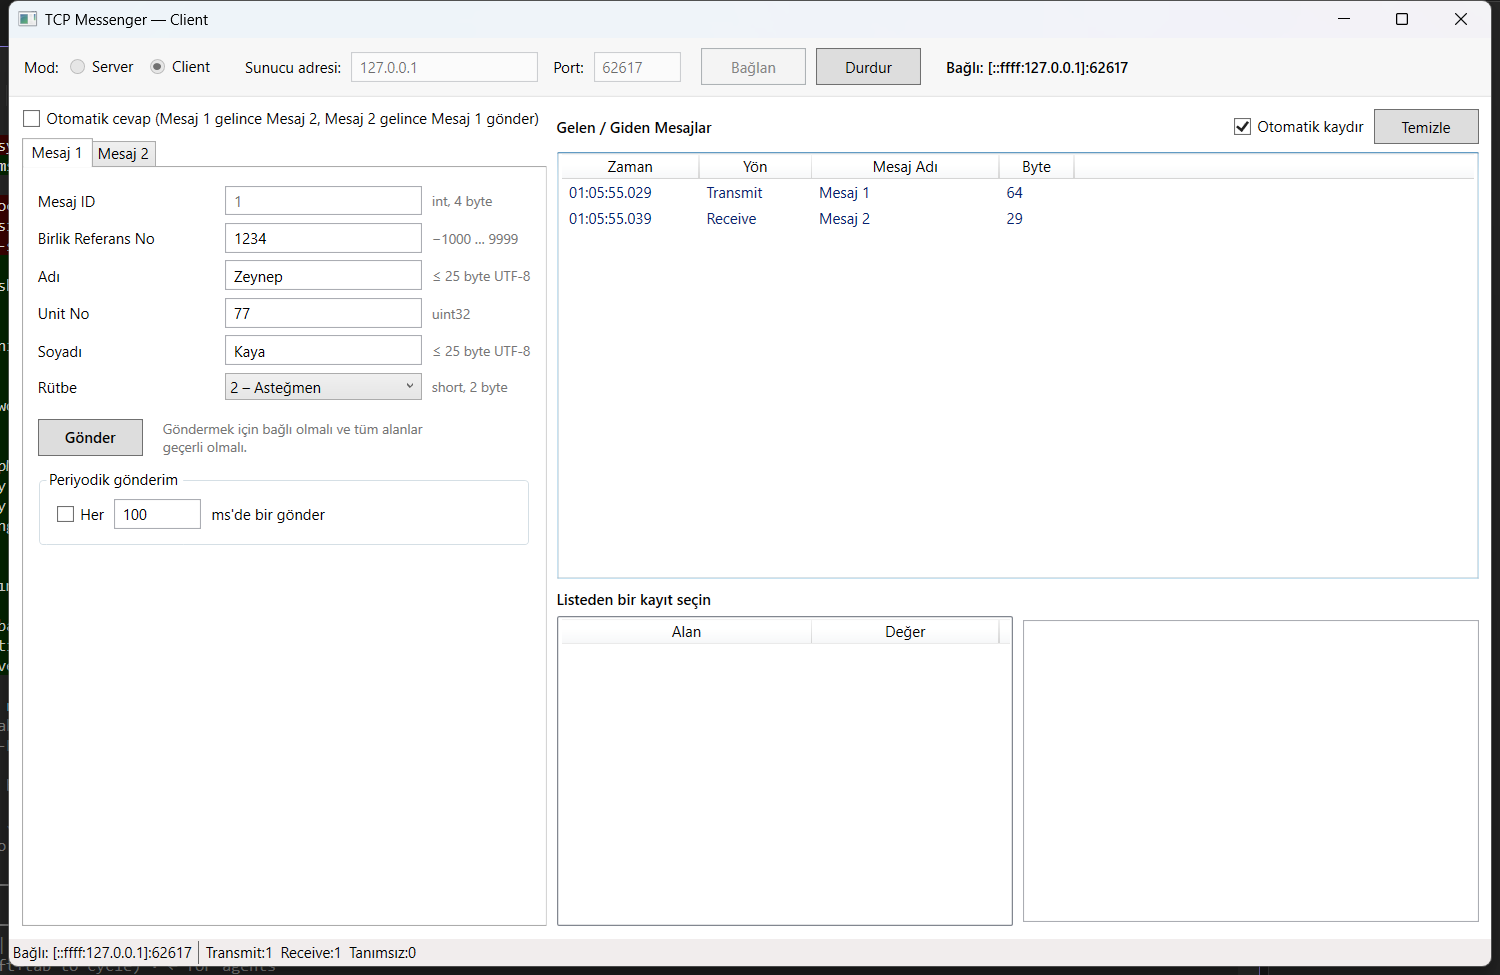
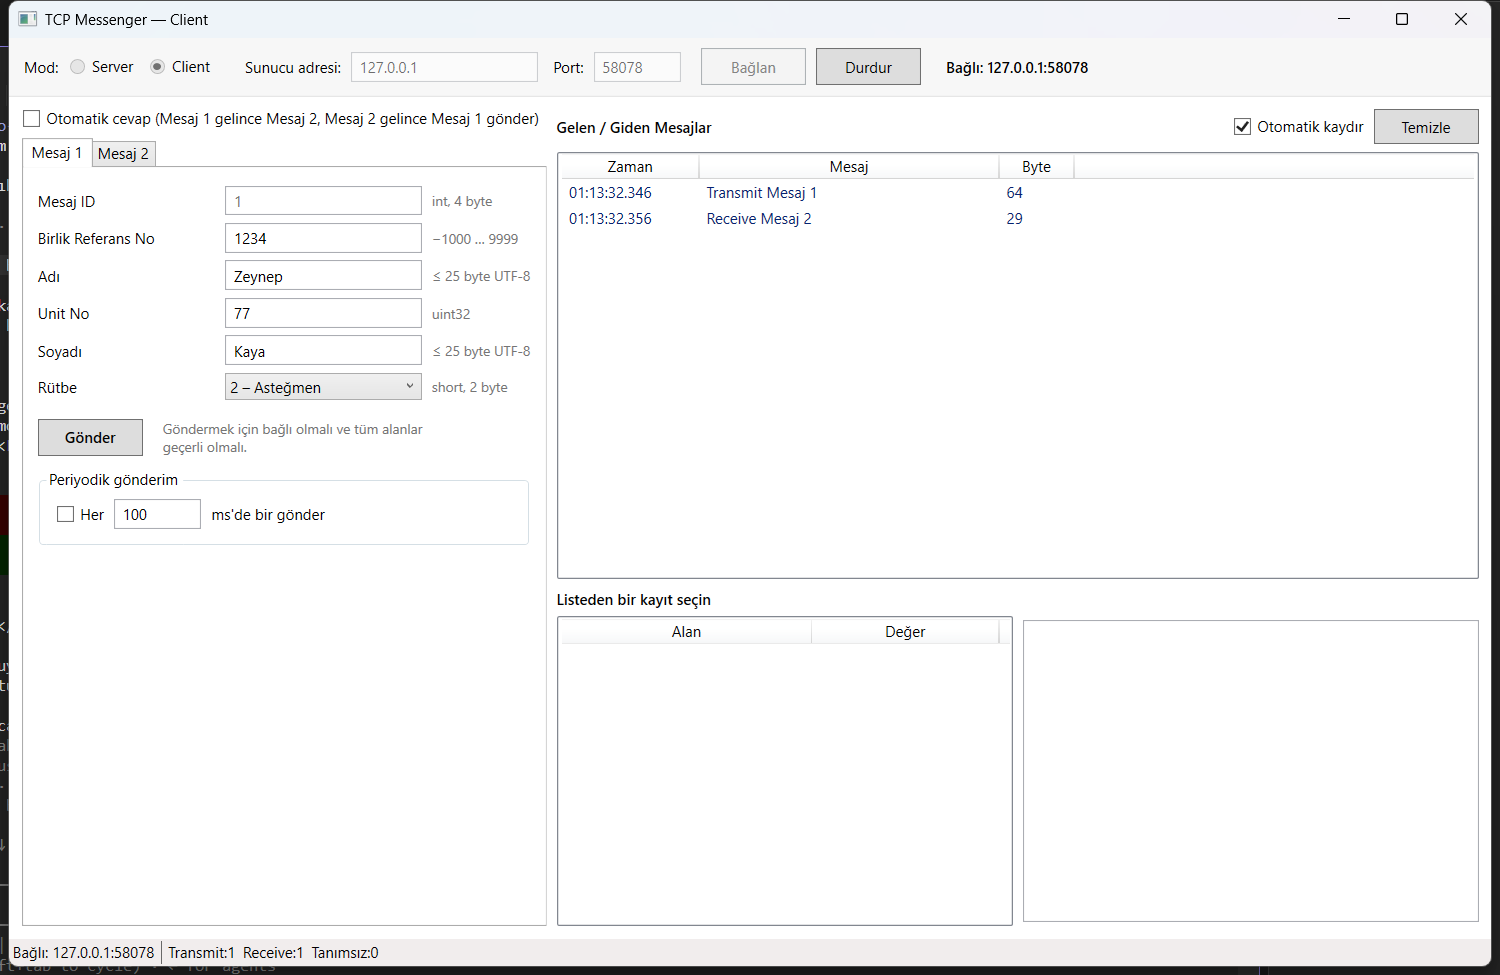
fix(app): show traffic rows exactly as the task words them
The list now has a single "Mesaj" column reading "Transmit Mesaj 1" /
"Receive Mesaj 2" instead of a separate direction column, matching the
requirement that the direction is prefixed to the message name.
Screenshots refreshed from the e2e run.

diff --git a/src/TcpMessenger.App/Views/TrafficLogView.xaml b/src/TcpMessenger.App/Views/TrafficLogView.xaml
@@ -46,8 +46,8 @@
             <ListView.View>
                 <GridView>
                     <GridViewColumn Header="Zaman" Width="110" DisplayMemberBinding="{Binding Time}" />
-                    <GridViewColumn Header="Yön" Width="90" DisplayMemberBinding="{Binding Direction}" />
-                    <GridViewColumn Header="Mesaj Adı" Width="150" DisplayMemberBinding="{Binding MessageName}" />
+                    <!-- Exactly as the task words it: the message name prefixed with "Transmit" / "Receive". -->
+                    <GridViewColumn Header="Mesaj" Width="240" DisplayMemberBinding="{Binding Summary}" />
                     <GridViewColumn Header="Byte" Width="60" DisplayMemberBinding="{Binding Length}" />
                 </GridView>
             </ListView.View>
